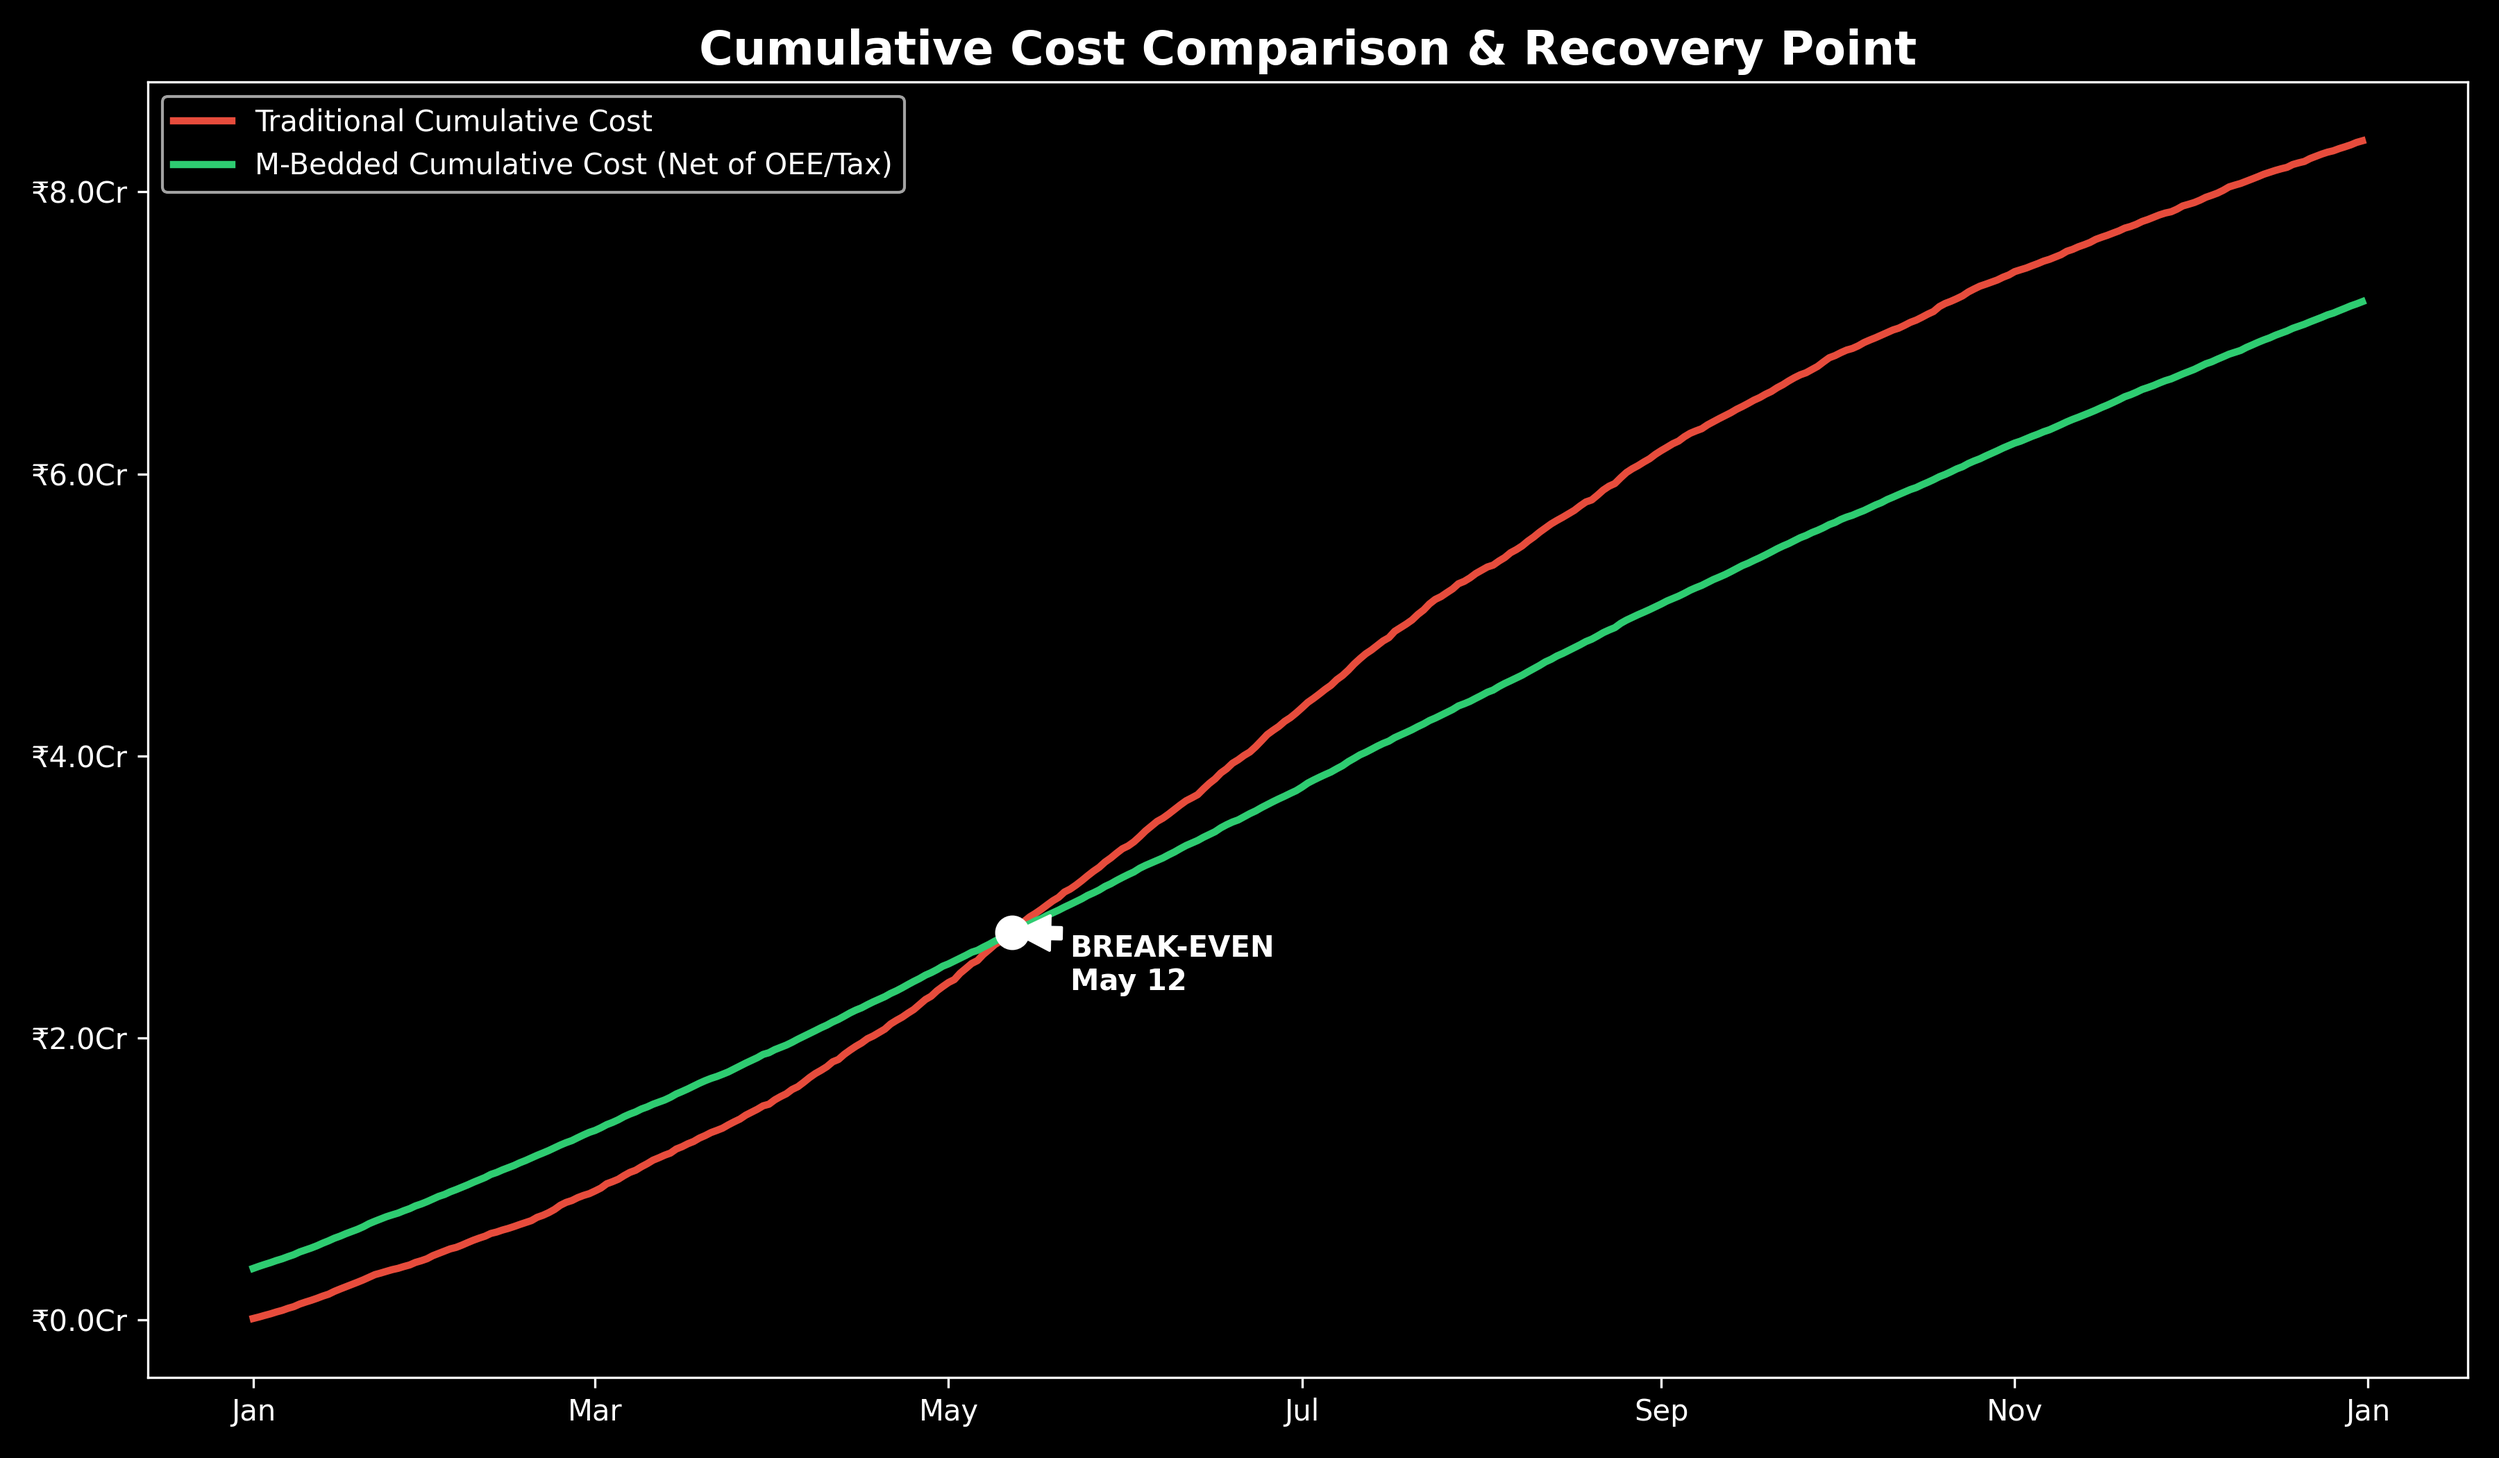
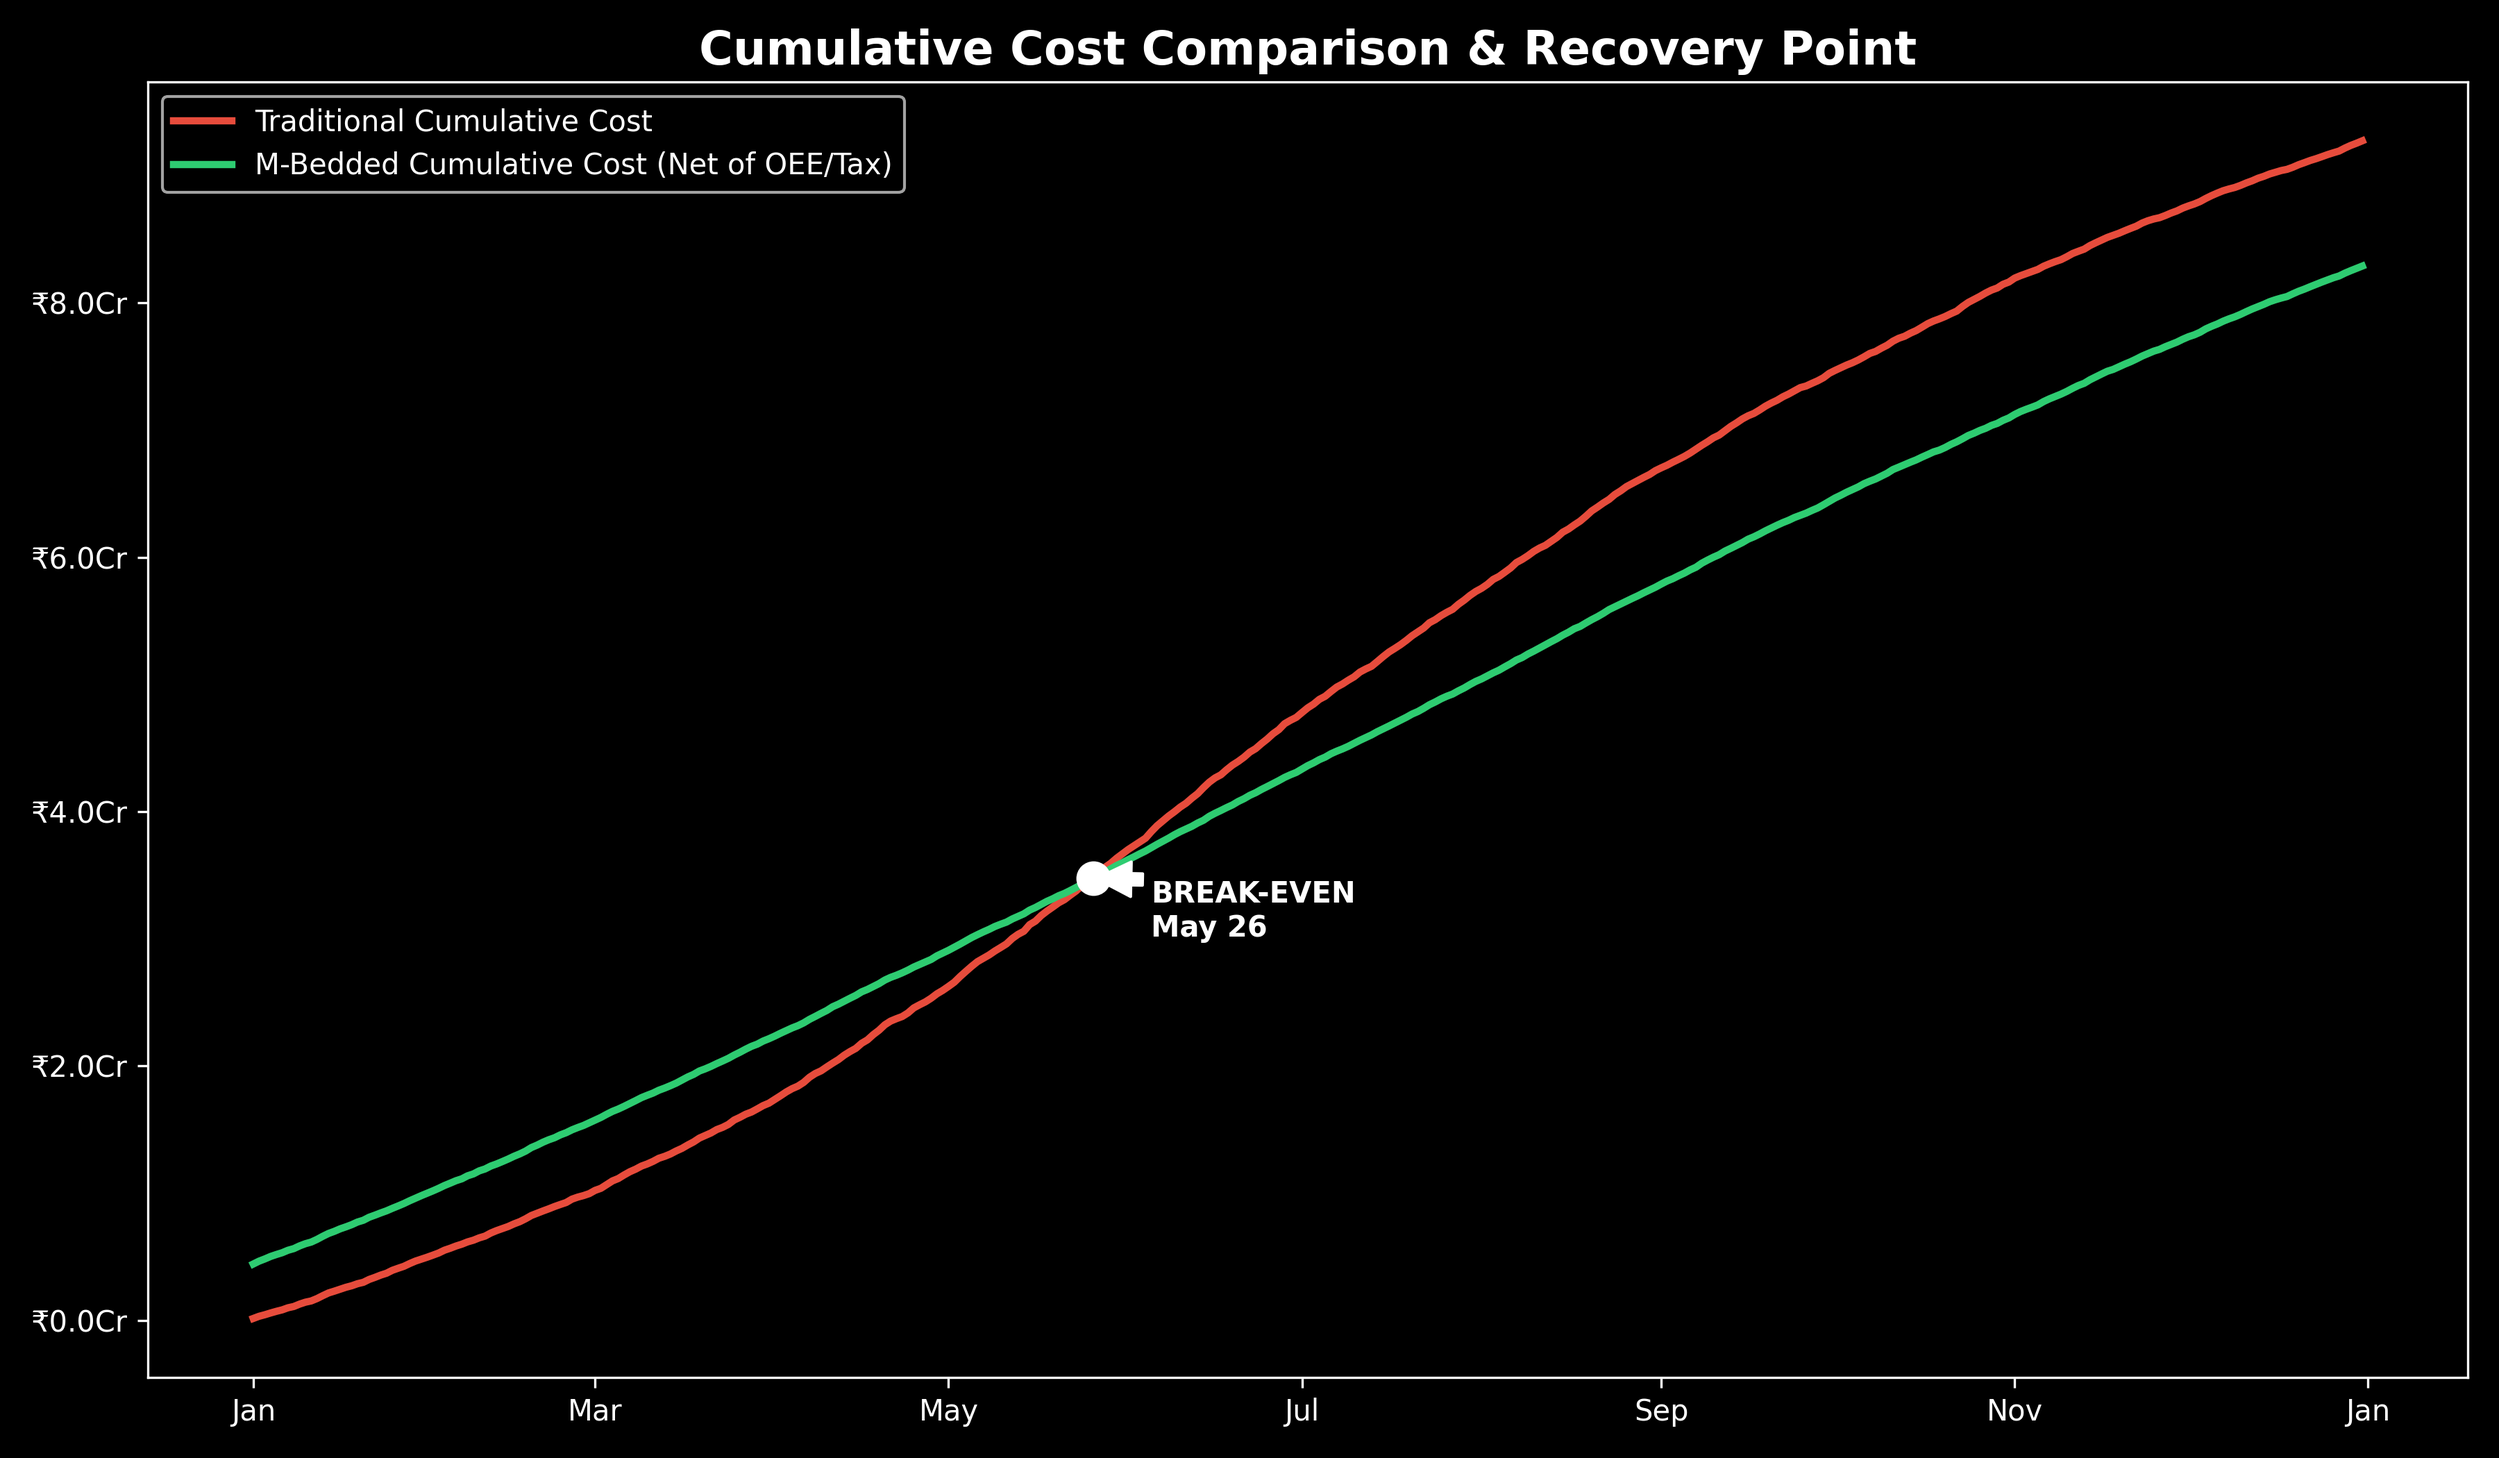
feat(financial_engine): integrate operational friction, IP royalty, and in-factory scrap metrics
Major update to simulation logic to reflect real-world FMCG manufacturing constraints:
- Added IMPLEMENTATION_DEBT to account for 48-hour installation downtime and operator training (₹7.7L).
- Adjusted MBED_OPEX_PER_UNIT to 0.90 to accurately reflect BOM and bake in the ₹0.05 IP licensing royalty.
- Introduced in-factory scrap rates (0.5% Traditional vs. 0.1% M-Bedded) to model pre-shipping COGS bleed.
- Refactored financial_engine.py to calculate and deduct factory yield loss before computing logistics penalties.

diff --git a/src/financial_engine.py b/src/financial_engine.py
@@ -68,10 +68,17 @@ def run_financial_math():
     }).reset_index()
     daily_df.rename(columns={'Kirana_Bleed_Base': 'Kirana_Bleed', 'MT_Total_Bleed': 'MT_Bleed'}, inplace=True)
 
+    # ADD THIS NEW BLOCK: 5.5 IN-FACTORY YIELD LOSS
+    # ==========================================
+    daily_df['Trad_Factory_Scrap_Cost'] = daily_df['Quantity_Shipped'] * Config.TRAD_IN_FACTORY_SCRAP * Config.COGS_PER_UNIT
+    daily_df['MBed_Factory_Scrap_Cost'] = daily_df['Quantity_Shipped'] * Config.MBED_IN_FACTORY_SCRAP * Config.COGS_PER_UNIT
+
 
     # --- 6. TRADITIONAL COST TRAJECTORY ---
     daily_df['Trad_OPEX'] = daily_df['Quantity_Shipped'] * Config.TRAD_OPEX_PER_UNIT
-    daily_df['Trad_Daily_Total_Cost'] = daily_df['Trad_OPEX'] + daily_df['Kirana_Bleed'] + daily_df['MT_Bleed']
+    
+    # ADD the Trad_Factory_Scrap_Cost to the daily total here:
+    daily_df['Trad_Daily_Total_Cost'] = daily_df['Trad_OPEX'] + daily_df['Kirana_Bleed'] + daily_df['MT_Bleed'] + daily_df['Trad_Factory_Scrap_Cost']
     daily_df['Trad_Cumulative_Cost'] = daily_df['Trad_Daily_Total_Cost'].cumsum()
 
     # --- MODULE A: RELATIVE OEE (FOUND PROFIT) ---
@@ -90,12 +97,18 @@ def run_financial_math():
     daily_df['Daily_Tax_Shield'] = annual_tax_shield / 365.0
 
 
-    # --- 7. M-BEDDED TRAJECTORY ---
+   # --- 7. M-BEDDED TRAJECTORY ---
     daily_df['MBed_OPEX'] = daily_df['Quantity_Shipped'] * Config.MBED_OPEX_PER_UNIT
-    daily_df['MBed_Daily_Total_Cost'] = daily_df['MBed_OPEX'] - daily_df['Daily_Found_Profit'] - daily_df['Daily_Tax_Shield']
-    daily_df['MBed_Cumulative_Cost'] = daily_df['MBed_Daily_Total_Cost'].cumsum() + Config.MBED_CAPEX
+    
+    # ADD the MBed_Factory_Scrap_Cost to the daily total here:
+    daily_df['MBed_Daily_Total_Cost'] = daily_df['MBed_OPEX'] - daily_df['Daily_Found_Profit'] - daily_df['Daily_Tax_Shield'] + daily_df['MBed_Factory_Scrap_Cost']
 
+    # Absorb the ₹35L CAPEX plus the ₹7.7L Factory Downtime Debt
+    total_day_zero_investment = Config.MBED_CAPEX + Config.IMPLEMENTATION_DEBT
+    daily_df['MBed_Cumulative_Cost'] = daily_df['MBed_Daily_Total_Cost'].cumsum() + total_day_zero_investment
+    
     # --- 8. BREAK-EVEN MATH ---
+
     break_even_mask = daily_df['MBed_Cumulative_Cost'] < daily_df['Trad_Cumulative_Cost']
     
     total_trad = daily_df['Trad_Cumulative_Cost'].iloc[-1]

diff --git a/config.py b/config.py
@@ -33,7 +33,12 @@ class Config:
     # 2. Unit Economics
     MBED_CAPEX = 3_500_000         # ₹35 Lakhs hardware module
     TRAD_OPEX_PER_UNIT = 0.51      # Traditional glue + BOPP wrapper
-    MBED_OPEX_PER_UNIT = 0.81      # M-Bedded blister seal + W-fold straw
+    MBED_OPEX_PER_UNIT = 0.9     # M-Bedded blister seal + W-fold straw + IP Royalty Fee
+
+    # --- Manufacturing Yield Variables (In-Factory) ---
+    TRAD_IN_FACTORY_SCRAP = 0.005  # 0.5% floor rejection
+    MBED_IN_FACTORY_SCRAP = 0.001  # 0.1% floor rejection
+    COGS_PER_UNIT = 20.00          # The raw cost of the liquid + packaging (₹18 liquid + ₹2 box)
    
     
     # 3. Salvage & Reverse Logistics Economics
@@ -49,8 +54,16 @@ class Config:
     SLA_PENALTY_FINE = 5.00             # ₹5 fine per defective unit
     PALLET_REJECTION_MULTIPLIER = 2.0   # 1 defect = 2 rejected units (Collateral damage)
 
+    # --- 5. Operational Friction & Implementation Debt ---
+    RETROFIT_DOWNTIME_HOURS = 48         # 1 weekend (48 hrs) to bolt the module to the conveyor
+    FACTORY_HOURLY_OPEX_BURN = 15_000    # The factory loses ₹15k per hour while the line is stopped
+    OPERATOR_TRAINING_COST = 50_000      # One-time upskilling cost for the floor workers
+    
+    # Calculate total Day 0 Implementation Debt (Equals ₹7,70,000)
+    IMPLEMENTATION_DEBT = (RETROFIT_DOWNTIME_HOURS * FACTORY_HOURLY_OPEX_BURN) + OPERATOR_TRAINING_COST
 
-    # 5. File Paths
+
+    # 6. File Paths
     DATA_DIR = 'data'
     IMAGE_DIR = 'images'
     DATA_OUTPUT_PATH = os.path.join(DATA_DIR, 'pilot_logistics_data.csv')
